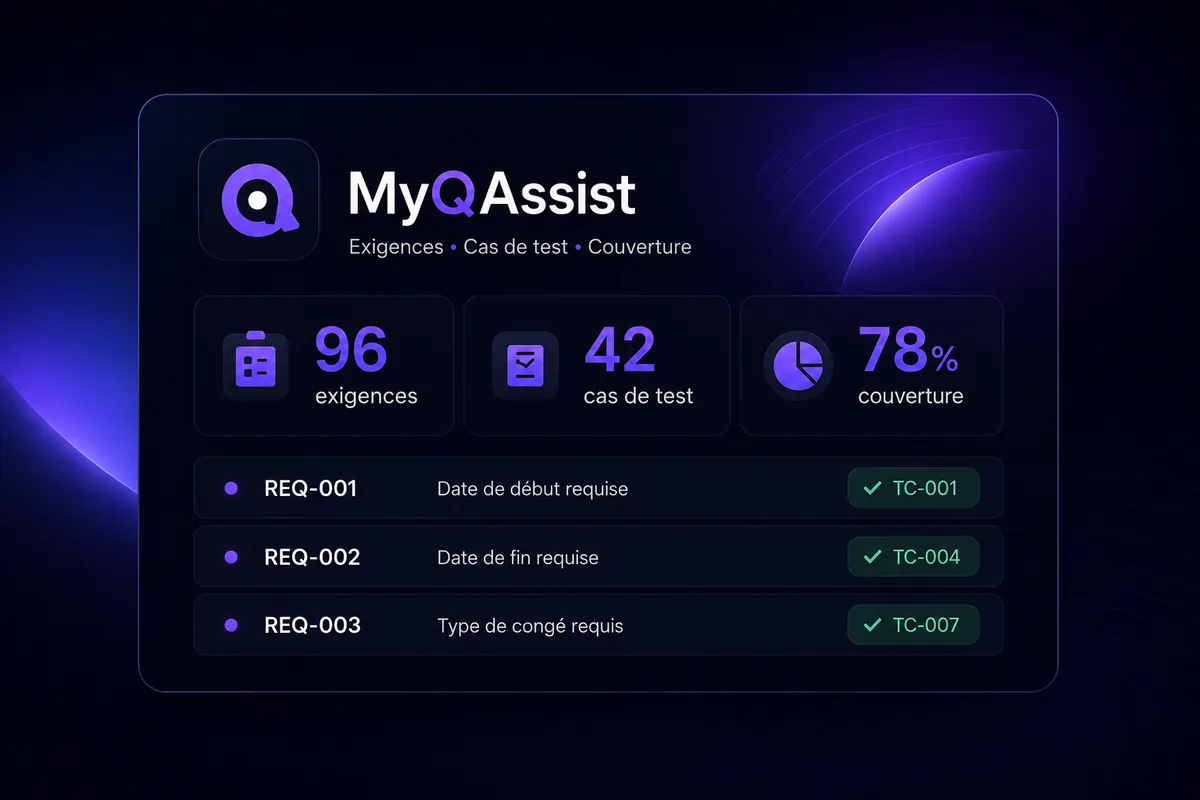
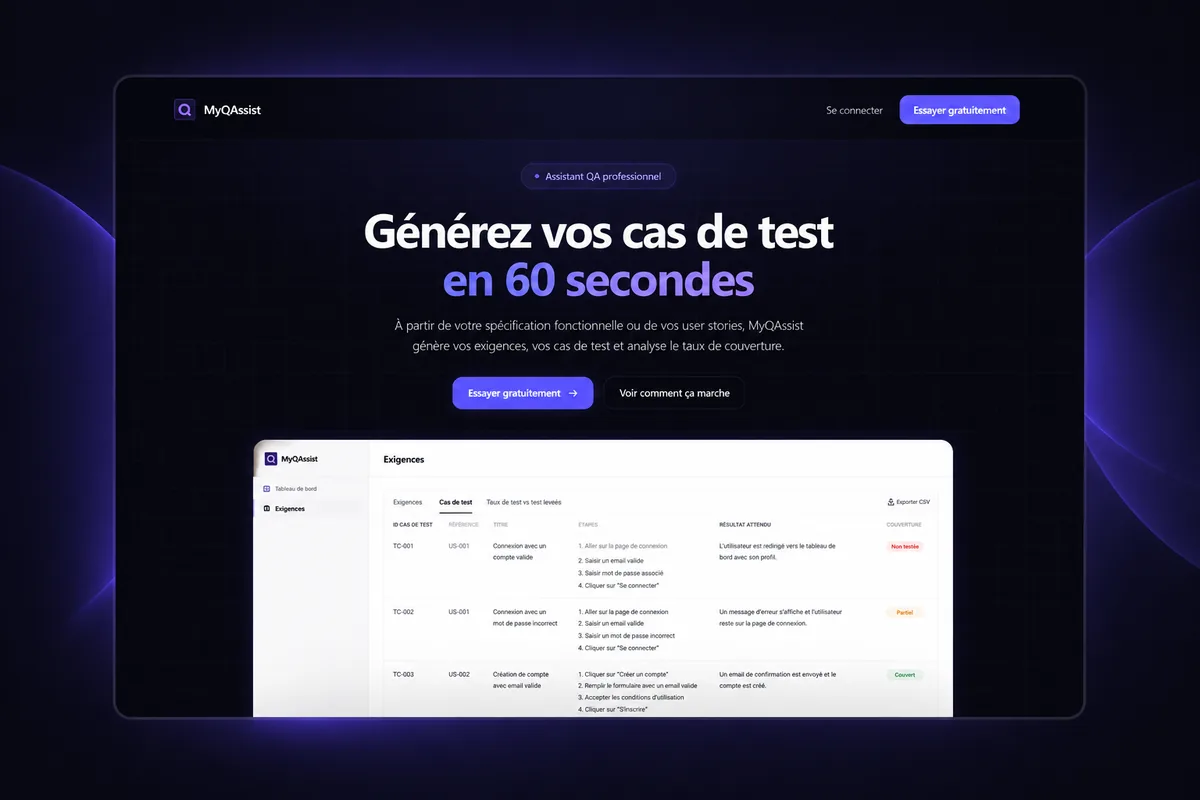
Update project cards and chat launcher

diff --git a/src/data/projects.ts b/src/data/projects.ts
@@ -65,6 +65,7 @@ export const projects: Project[] = [
   {
     slug: 'king-of-paddock',
     title: 'King Of Paddock',
+    image: '/screenshots/king-of-paddock-card.webp',
     tagline: 'Application de Fantasy F1 avec système de championnats entre amis, ligue communautaire et scoring automatisé.',
     shortDescription:
       'Produit fantasy F1 lancé avec une vraie base utilisateurs, construit avec une agence puis repris avec un freelance pour continuer les évolutions.',
@@ -101,6 +102,7 @@ export const projects: Project[] = [
   {
     slug: 'jcc-football',
     title: 'JCC Football',
+    image: '/screenshots/jcc-football-card.webp',
     tagline: 'Création d’un jeu de type cartes à collectionner et Fantasy football. Système de pack opening, ligue communautaire et data avancée.',
     shortDescription:
       'Side project construit pour explorer une app fantasy football avec cartes, packs, collection, équipes et interface admin.',
@@ -134,8 +136,9 @@ export const projects: Project[] = [
   },
     {
     slug: 'site-web-king-of-paddock',
-    title: 'Site web KOP',
-    tagline: 'Site internet pour l’application King Of Paddock. Travail sur le référencement (SEO), page news d’informations F1.',
+    title: 'Website KOP',
+    image: '/screenshots/king-of-paddock-site-card.webp',
+    tagline: 'Site internet de l’application King Of Paddock. Travail sur le référencement (SEO), page news d’informations F1.',
     shortDescription:
       '',
     year: '2026',

diff --git a/src/components/ContactChatLauncher.tsx b/src/components/ContactChatLauncher.tsx
@@ -52,7 +52,7 @@ export default function ContactChatLauncher() {
           setIsChatOpen(true)
         }}
         aria-label="Ouvrir la fenêtre de contact"
-        className={`group fixed bottom-6 right-6 z-[80] flex h-14 items-center justify-end overflow-hidden rounded-lg border shadow-[0_18px_60px_rgba(0,0,0,0.35)] backdrop-blur-md transition-all duration-300 hover:w-48 focus-visible:w-48 focus-visible:outline-none focus-visible:ring-2 focus-visible:ring-brand-200/50 ${
+        className={`group fixed bottom-6 right-6 z-[80] flex h-14 items-center justify-end overflow-hidden rounded-lg border shadow-[0_18px_60px_rgba(0,0,0,0.35)] backdrop-blur-md transition-all duration-300 hover:w-56 focus-visible:w-72 focus-visible:outline-none focus-visible:ring-2 focus-visible:ring-brand-200/50 ${
           isVisible || isChatOpen ? 'w-14 translate-y-0 opacity-100' : 'pointer-events-none w-14 translate-y-3 opacity-0'
         } ${
           hasUnreadHint && !isChatOpen
@@ -62,8 +62,8 @@ export default function ContactChatLauncher() {
               : 'border-line bg-panel/95 text-brand-200 hover:border-brand-300/70'
         }`}
       >
-        <span className="w-0 overflow-hidden whitespace-nowrap pl-0 pr-0 text-left text-xs font-normal opacity-0 transition-all duration-300 group-hover:w-32 group-hover:pl-4 group-hover:pr-3 group-hover:opacity-100 group-focus-visible:w-32 group-focus-visible:pl-4 group-focus-visible:pr-3 group-focus-visible:opacity-100">
-          Message
+        <span className="w-0 max-w-[10rem] overflow-hidden whitespace-nowrap pl-0 pr-0 text-left text-xs font-normal opacity-0 transition-all duration-300 group-hover:w-[13.25rem] group-hover:pl-4 group-hover:pr-3 group-hover:opacity-100 group-focus-visible:w-[13.25rem] group-focus-visible:pl-4 group-focus-visible:pr-3 group-focus-visible:opacity-100">
+          {hasUnreadHint && !isChatOpen ? 'Vous avez un message !' : 'Entamez la discussion !'}
         </span>
         <span className="flex h-14 w-14 shrink-0 items-center justify-center">
           <MessageCircleMore size={22} strokeWidth={1.8} />